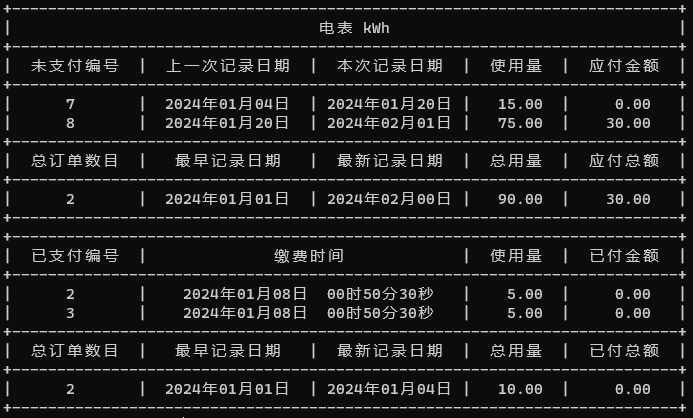
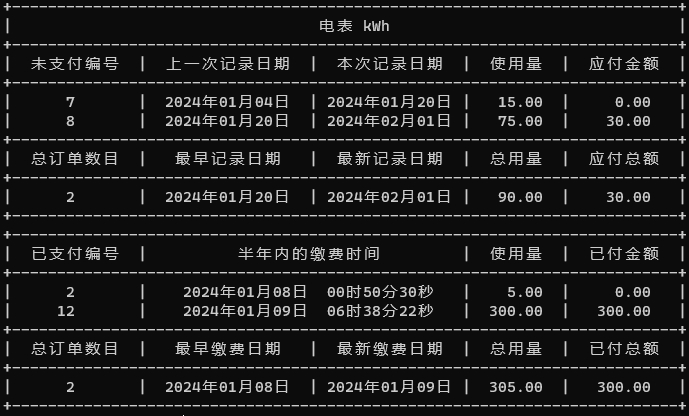
v1.0.1 功能更新

Changed region(s): [[0.0, 0.0, 1.0, 0.5312], [0.0, 0.5625, 1.0, 1.0]]

diff --git a/README.md b/README.md
@@ -58,7 +58,7 @@
 
 ###  v1.0.0
 
-***Recorded on January 1, 2024***
+***Recorded on January 8, 2024***
 
 1. 输入格式不正确自动校验，重新输入或者返回当前主菜单
 
@@ -72,12 +72,33 @@
 
 6. 缴费选择多样化，可以根据需求，对全部或者对某种类型的订单进行 ”全部，部分订单号“ 进行缴费，自动获取应付金额
 
-7. 查看缴费记录，可以获取所有缴费记录，可以选择半年内的缴费记录和本次缴费数据
+7. 查看缴费记录，可以获取所有缴费记录，~~可以选择半年内的缴费记录和本次缴费数据~~
 
-   <img src="img/record.png" height="500" padding="50px" />
+   <img src="img/record.png" height="300" padding="50px" />
 
 8. 查看未缴费名单，按照房间号升序排序输出所有人信息，并统计每个房间号应缴费金额
 
 ------
 
-### 
+### v.1.0.1
+
+***Recorded on January 9, 2024***
+
+1. 修复自动获取上一次记录时间出现的异常
+
+   ```c++
+   // 根据需求返回最大的日期或者最小的日期。
+   string compareDate(vector<string>datavec, string type);
+   ```
+
+2. 新增查看缴费记录时有效期为半年
+
+   ```c++
+   // 获取半年前的时间
+   string get6month_ago(string data);
+   // 判断日期是否在半年内
+   bool in6mon(string date, string dateago);
+   ```
+
+   
+
